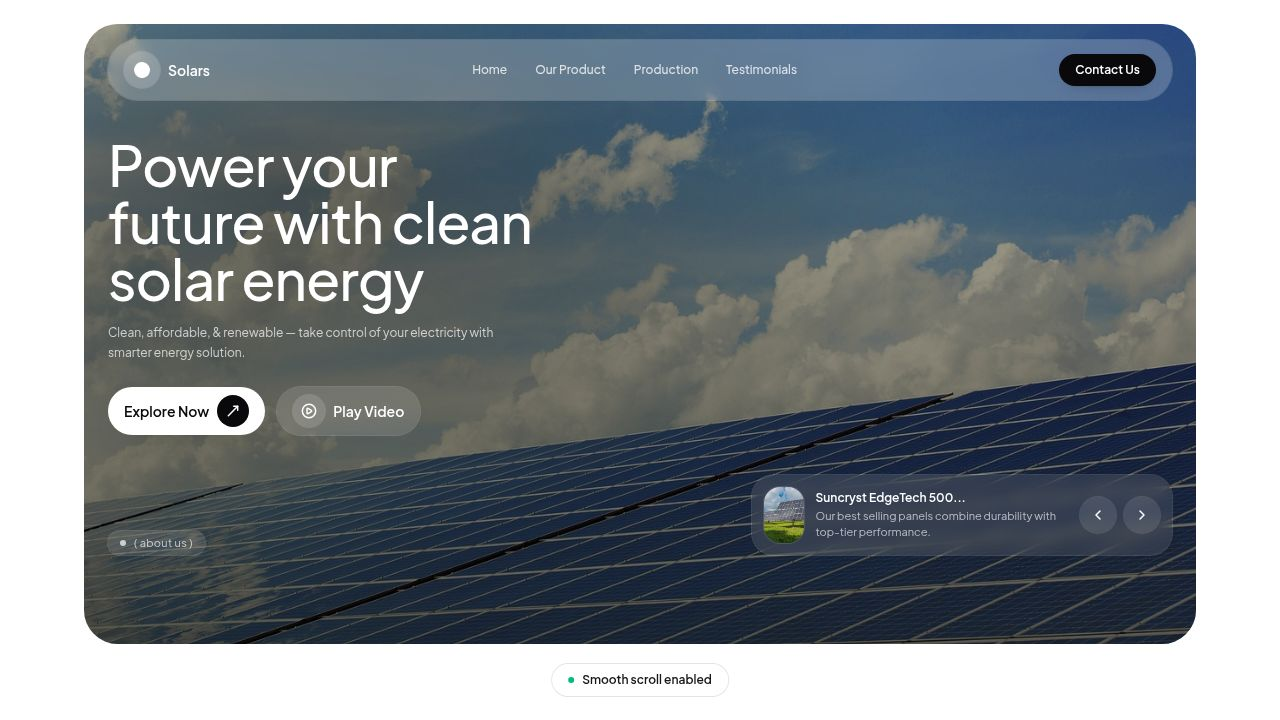
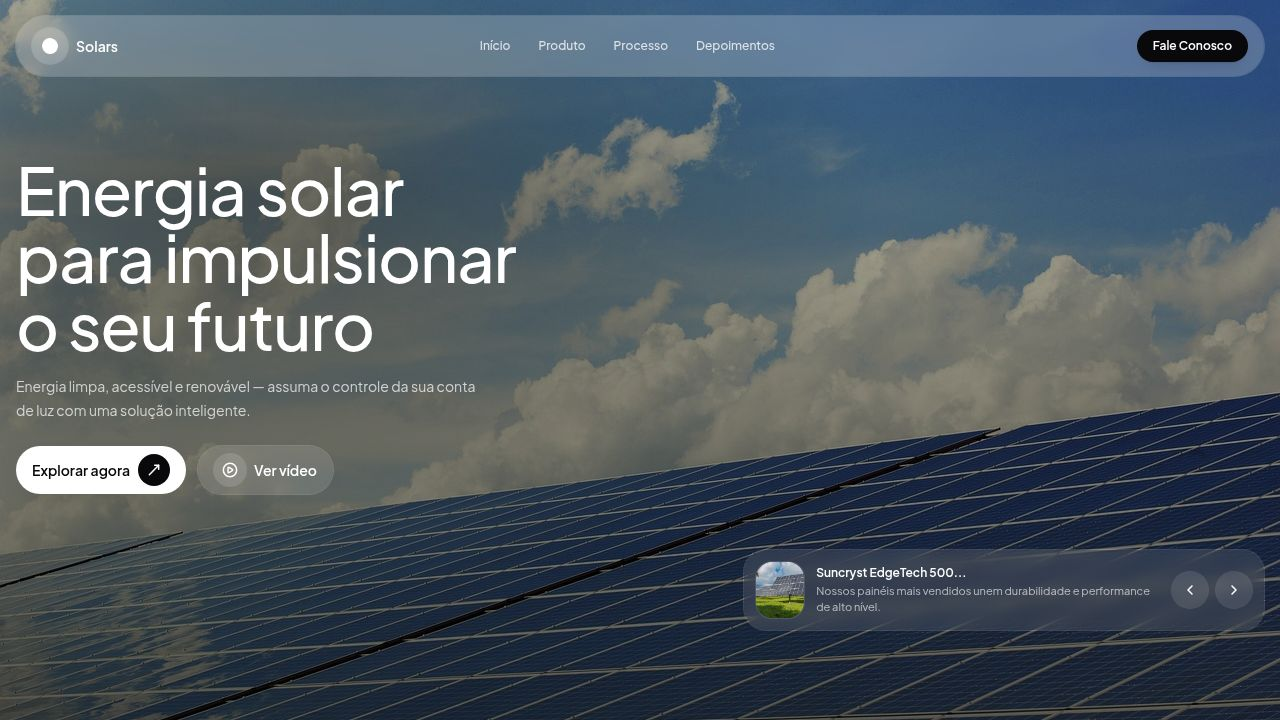
Make hero section fill entire screen on desktop
Adjusted the Hero component in `landing.tsx` to use `min-h-screen w-full` and `h-screen object-cover` for the image, ensuring it takes up the full viewport height on desktop. Removed rounded corners and adjusted container padding for the hero. Moved the Hero component outside of the main tag and into its own section.

Replit-Commit-Author: Agent
Replit-Commit-Session-Id: cde62241-d472-4615-87fd-2910ee40989d
Replit-Commit-Checkpoint-Type: full_checkpoint
Replit-Commit-Event-Id: 9133c556-2647-4c2b-8f5e-c456b5c336d5
Replit-Commit-Screenshot-Url: https://storage.googleapis.com/screenshot-production-us-central1/eede4cac-3f58-423c-a1e9-f071d8b2dafc/cde62241-d472-4615-87fd-2910ee40989d/KfMyQEm
Replit-Helium-Checkpoint-Created: true

diff --git a/client/src/pages/landing.tsx b/client/src/pages/landing.tsx
@@ -208,19 +208,19 @@ function Hero({
   onPlay: () => void;
 }) {
   return (
-    <section id="top" className="relative overflow-hidden rounded-[34px] bg-black lg:rounded-[40px]">
+    <section id="top" className="relative min-h-screen w-full overflow-hidden bg-black">
       <img
         data-testid="img-hero"
         src={heroImg}
         alt="Painéis solares"
-        className="h-[520px] w-full object-cover sm:h-[560px] md:h-[620px] lg:h-[720px]"
+        className="h-screen w-full object-cover"
       />
       <div className="absolute inset-0 hero-overlay noise" />
 
       <div className="absolute inset-0">
         <Nav onContact={() => document.getElementById("footer")?.scrollIntoView({ behavior: "smooth" })} />
 
-        <div className="container-page">
+        <div className="container-page pt-4 sm:pt-6">
           <div className="pt-[104px] sm:pt-[112px] lg:pt-[132px]">
             <div className="max-w-[520px] lg:max-w-[640px]">
               <h1
@@ -789,9 +789,9 @@ export default function Landing() {
 
   return (
     <div className="min-h-screen bg-white">
-      <main className="container-page py-4 sm:py-6 lg:py-6">
+      <section className="w-full">
         <Hero onPlay={() => setVideoOpen(true)} />
-      </main>
+      </section>
 
       <About />
       <ProductFeature product={primaryProduct} />
